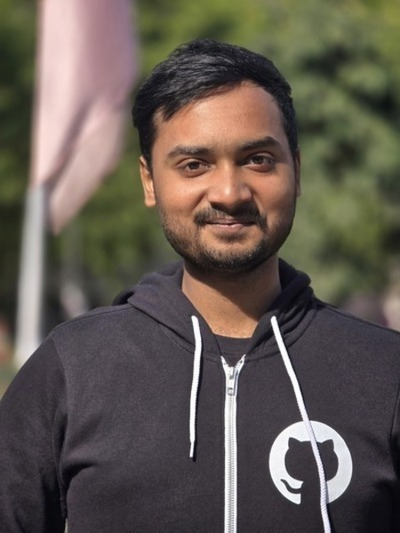
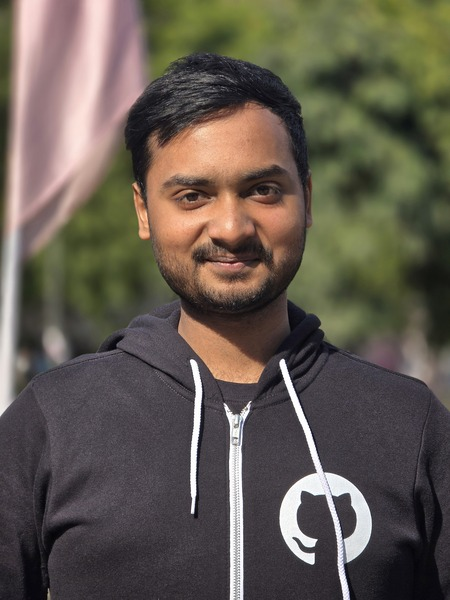
update pfp for self

diff --git a/index.html b/index.html
@@ -32,10 +32,10 @@
     <meta property="og:description" content="Made using DevFolio Template" />
     <!-- Add a thumbnail image in assets folder and fill the content attr with URL to that thumbnail 
       so that a thumbnail image of your portfolio is shown while shared on other platform -->
-    <meta
+    <!-- <meta
       property="og:image"
       content="https://devfolio.js.org/assets/devfolio.png"
-    />
+    /> -->
 
     <!-- Twitter -->
     <meta property="twitter:card" content="Tauqeer Ahmaad DevOps Engineer" />
@@ -119,7 +119,7 @@
               class="img-fluid"
               src="./assets/pfp_github.jpg"
               alt="Profile Image"
-              width="400"
+              width="500"
               height="533"
             />
           </div>
